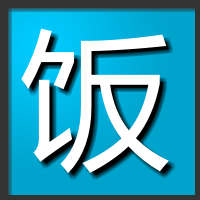
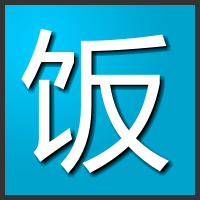
shadow/border improved

diff --git a/templates/index.html b/templates/index.html
@@ -165,8 +165,11 @@
 	</div>
 
 	<div id="footer">
-		<div id='versionInfo'>© 2009-2010 <a href="http://iregex.org/" title="Rex Zhasm" target="_blank">.rex</a>, <a href="http://anegie.com/" title="Kevin Deng" target="_blank">Kevin Deng</a>, <a href="http://fanfou.com/nos." title="Nos." target="_blank">Nos.</a> 保留所有权利。Ver <a target="_blank" href="https://github.com/zhasm/iFanAvatar/tree/{{ version }}">{{ version }}</a> build 
-			<a target="_blank" href="https://github.com/zhasm/iFanAvatar/commit/{{ build }}">{{ build|slice:":8" }}</a>
+		<div id='versionInfo'>© 2009-2010 <a href="http://iregex.org/" title="Rex Zhasm" target="_blank">.rex</a>, <a href="http://anegie.com/" title="Kevin Deng" target="_blank">Kevin Deng</a>, <a href="http://fanfou.com/nos." title="Nos." target="_blank">Nos.</a> 保留所有权利。
+			{% if version and build %}
+				Ver <a target="_blank" href="https://github.com/zhasm/iFanAvatar/tree/{{ version }}">{{ version }}</a> build 
+				<a target="_blank" href="https://github.com/zhasm/iFanAvatar/commit/{{ build }}">{{ build|slice:":8" }}...</a>
+			{% endif %}
 		</div>
 			这是一款非盈利的开源工具，由 <a href="http://www.djangoproject.com/" title="The Django Project" target="_blank">Django</a> 及 <a href="http://www.pythonware.com/products/pil/" title="Python Imaging Library" target="_blank">PIL</a> 强力驱动。请访问作者的饭否页面并给予反馈：<a href="http://fanfou.com/zhasm" title="Rex Zhasm" target="_blank">.rex</a> | <a href="http://fanfou.com/anegie" title="Kevin Deng" target="_blank">Kevin Deng</a> | <a href="http://fanfou.com/nos." title="Nos." target="_blank">Nos.</a>
 	</div>

diff --git a/draw.py b/draw.py
@@ -48,32 +48,31 @@ def my_draw(request,bg, text, font, textColor, shadowColor, border, shadow, high
     #generate new pic only when not existing
 
     if 1 :#not os.path.exists(filename):
+        # when debugging, set if to 1, so as to gen pic each time;
+        # when done, set if to not os.path.exists(filename), and only gen new pics.
+        
         image_a=Image.open(findPath("colors/%s" % bg))
         image_b=Image.open(findPath("colors/%s" % bg))
         font=ImageFont.truetype(pFont, fontSize)
         width=180
         height=180
         box=(10,10,width+10, height+10)
-        side=10
+        side=13
         position=(0+side,0+side, width+side, height+side)
 
         img_draw=ImageDraw.Draw(image_b)
 
         if shadow:
-            img_draw.text(textPosition,text,font=font,fill=shadowColor)
+            img_draw.text(textPosition,text,font=font,fill=shadowColor) 
+            imgfilted=image_b.filter(ImageFilter.BLUR) 
+            region=imgfilted.crop(box)
+            img_draw=ImageDraw.Draw(image_a) 
+            image_a.paste(region,position)
+            img_draw.text(textPosition,text,font=font,fill=textColor) 
+            image_a.save(filename)
         else:
-            img_draw.text(textPosition,text,font=font)
-        imgfilted=image_b.filter(ImageFilter.BLUR)
-
-        img_draw=ImageDraw.Draw(image_a)
-
-        region=imgfilted.crop(box)
-        image_a.paste(region,position)
-        img_draw.text(textPosition,text,font=font,fill=textColor) 
-        
-        image_a.save(filename)
-
-    #display the picture;
-    #img tag is enough, for this is displayed in pic_output div.
+            img_draw.text(textPosition,text,font=font) 
+            image_b.save(filename)
+    
     html="""<img src="./site_media/result/%s">""" % (pure)
     return HttpResponse(html)
